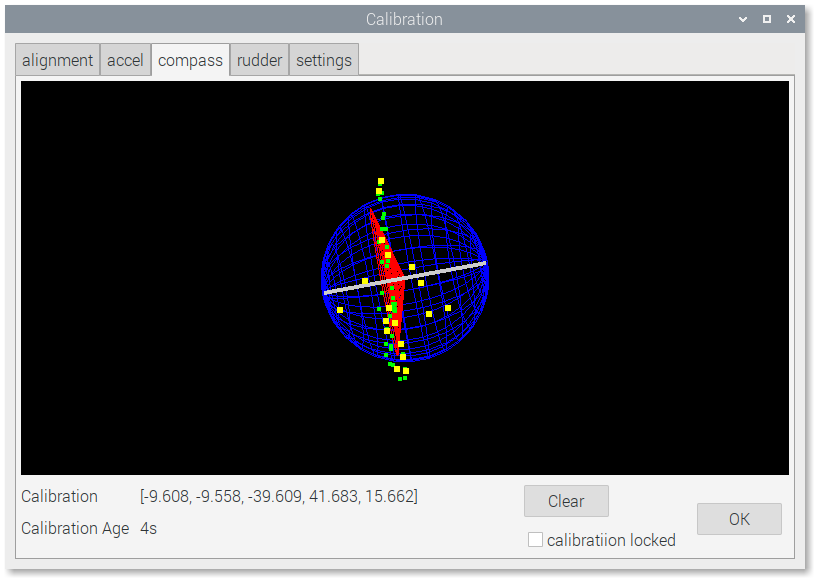
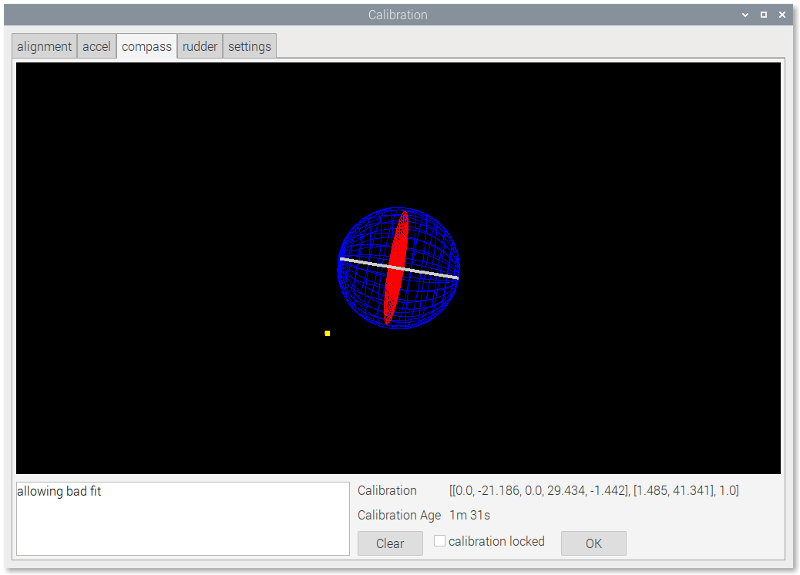
update pypilot calibration images

Changed region(s): [[0.0, 0.0, 1.0, 1.0], [0.375, 0.3252, 0.625, 0.6504]]

diff --git a/pypilot/calibration.rst b/pypilot/calibration.rst
@@ -19,6 +19,7 @@ Carefully place the sensor on each of the 6 sides of a box (+- 10 degrees will d
 Once a calibration is applied the accelerometer ``Calibration Age`` should reset and fit points become yellow. If it does not, repeat the process putting the sensors in different orientations until a calibration fix is found.
 
 .. image:: img/calibration0.png
+.. image:: img/calibration1.png
 
 If you use the cheapest sensors, sometimes they have bad accelerometers. Either one axis will always read zero, or they will saturate because the bias is greater than 1g. This is easy to determine from the accelerometer calibration plot in calibration window. 
 
@@ -30,11 +31,11 @@ Once the accelerometers are calibrated, the sensor should be fixed securely to t
 
 To perform alignment, ensure the boat is level (not heeling or pitching) and in relatively calm water (small waves motion of a few degrees is ok). Go to ``alignment`` tab and click  ``Boat is level`` button.
 
-.. image:: img/calibration1.png
+.. image:: img/calibration2.png
 
 Correct alignment must be performed before the compass calibration can begin. 
 
-.. image:: img/calibration2.png
+.. image:: img/calibration3.png
 
 
 3. Compass
@@ -56,11 +57,11 @@ Subsequent 2D fixes will use the previous undetermined value for 3D fix, combini
 
 Compass calibration is continuous and always updates unless locked. You may wish to lock it to prevent future calibration updates.
 
-.. image:: img/calibration3.png
+.. image:: img/calibration4.png
 
 Once a new calibration is applied, the accelerometer ``Calibration Age`` should reset and fit points become yellow.
 
-.. image:: img/calibration4.png
+.. image:: img/calibration5.png
 
 If the sensors are remounted, they must be re-aligned and the compass recalibrated.
 

diff --git a/external/myapp_app.rst b/external/myapp_app.rst
@@ -31,7 +31,7 @@ After finishing the post installation tasks, try to open the app again.
 Creating your app from *My App* template
 ****************************************
 
-OpenPlotter apps must be written in python 3 and must be distributed as Debian packages.
+OpenPlotter apps should be written in python 3 and must be distributed as Debian packages.
 
 First of all you need a repository to upload and distribute your app. You can use any Debian repository but we recommend https://cloudsmith.io because it is really easy for newbyes.
 
